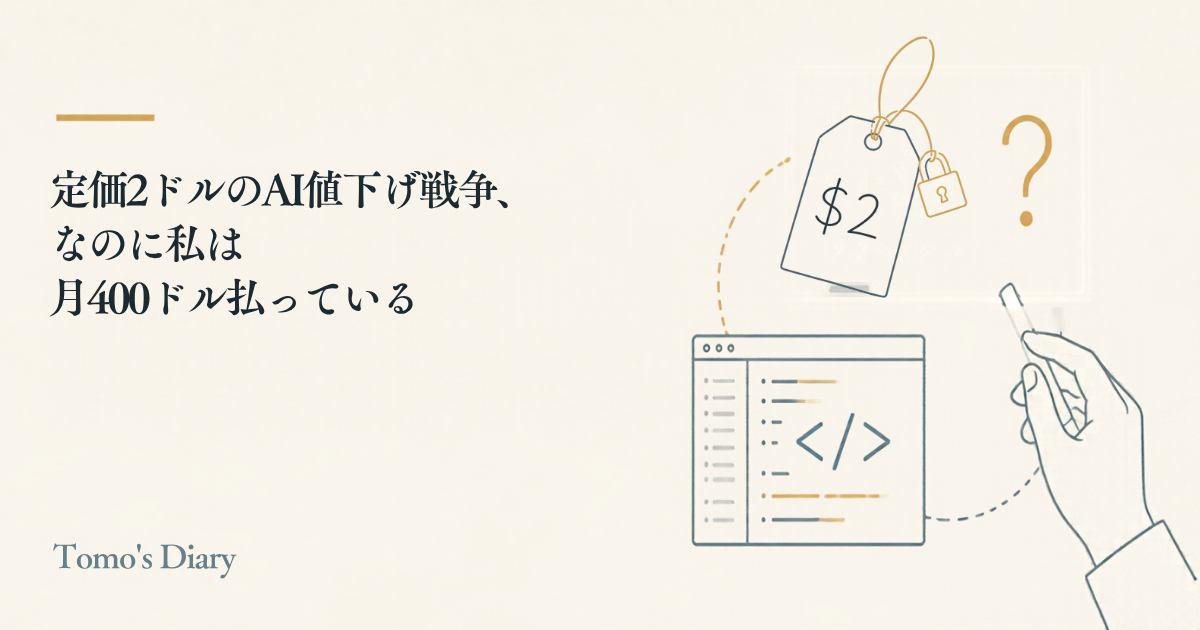
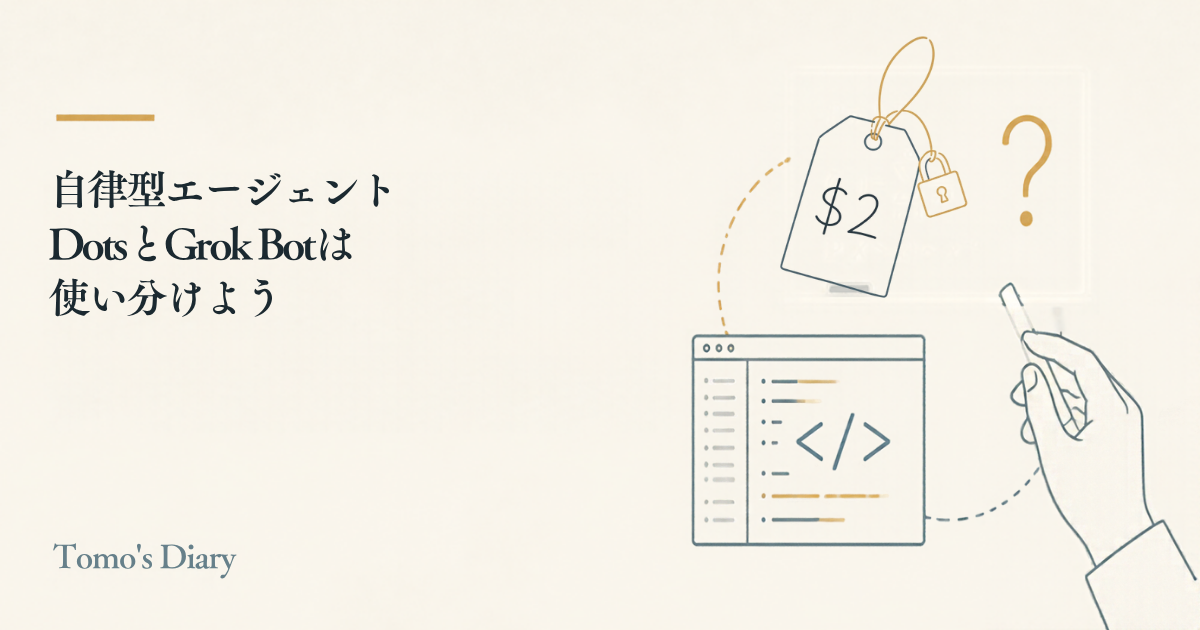
Retitle price-war post: use Dots and Grok Bot for different jobs (JA/EN)

Changed region(s): [[0.0308, 0.3619, 0.3392, 0.5127], [0.0308, 0.2714, 0.4317, 0.3317]]

diff --git a/src/posts/ai-price-war-lock-in.md b/src/posts/ai-price-war-lock-in.md
@@ -1,5 +1,5 @@
 ---
-title: "定価2ドルのAI値下げ戦争、なのに私は月400ドル払っている"
+title: "自律型エージェントDotsとGrok Botは使い分けよう"
 date: 2026-10-25T09:00:00+08:00
 description: "定価はどこも100万トークンあたり2ドル。モデルで差がつかなくなったAI各社は、条件付きの値引きと常駐エージェントで客を囲い込みにきています。1社に縛られないようにAIを方角で使い分けてきた私の、毎月の支払いの話です。"
 tags:
@@ -8,7 +8,7 @@ tags:
   - openai
   - anthropic
 image: /images/posts/ai-price-war-lock-in/hero.png
-imageAlt: "クリーム色の背景に「定価2ドルのAI値下げ戦争、なのに私は月400ドル払っている」というタイトルと、南京錠の付いた値札、コード画面、チョークを持つ手の線画"
+imageAlt: "クリーム色の背景に「自律型エージェントDotsとGrok Botは使い分けよう」というタイトルと、南京錠の付いた値札、コード画面、チョークを持つ手の線画"
 ---
 
 AIの値下げ戦争で、モデルそのものの差はほとんどなくなりました。そこで各社は条件付きの値引きや常駐エージェントで客を囲い込もうとしています。囲い込まれないように工夫してきた私も、どうやら他人事ではありませんでした。

diff --git a/src/en/posts/ai-price-war-lock-in.md b/src/en/posts/ai-price-war-lock-in.md
@@ -1,5 +1,5 @@
 ---
-title: "AI List Prices Are $2. I Pay $400 a Month."
+title: "Use Autonomous Agents Dots and Grok Bot for Different Jobs"
 date: 2026-10-25T09:00:00+08:00
 description: "List prices are flat at $2 per million tokens. With models no longer setting them apart, AI companies are locking customers in with conditional discounts and always-on agents. This is about how I split my AI by direction to avoid being locked in, and what I pay every month."
 tags:
@@ -8,7 +8,7 @@ tags:
   - openai
   - anthropic
 image: /images/posts/ai-price-war-lock-in/hero-en.png
-imageAlt: "Cream background with the headline 'AI List Prices Are $2. I Pay $400 a Month.' and line drawings of a padlocked price tag, a code window and a hand holding chalk"
+imageAlt: "Cream background with the headline 'Use Autonomous Agents Dots and Grok Bot for Different Jobs' and line drawings of a padlocked price tag, a code window and a hand holding chalk"
 lang: en
 ---
 
